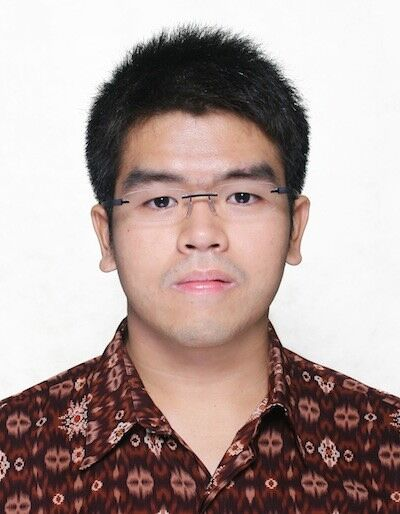
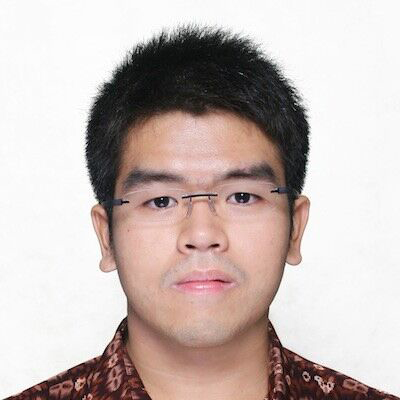
Show student pictures

diff --git a/students/index.html b/students/index.html
@@ -4,13 +4,34 @@ layout: default
 <div class="post">
   <header class="post-header">
     <h1>Students</h1>
+    <hr>
   </header>
-  <article class="post-content">
-    {% for student in site.data.students %}
-      <div class="student-thumbnail" style="background-image: url(/img/students/{{ student.id }}.jpg);"></div>
-      <h3>{{ student.name }}</h3>
-      <p>{{ student.one_liner }}</p>
-      <p>{{ student.year }}</p>
-    {% endfor %}
+  <div class="row">
+    <div class="col-md-2">
+      <h4>Cohort</h4>
+      <ul>
+        <li>2015/16</li>
+        <li>2014/15</li>
+        <li>2013/14</li>
+      </ul>
+    </div>
+    <div class="col-md-10">
+      <div class="row">
+        {% for student in site.data.students %}
+          <div class="col-xs-6 col-md-3">
+            <div class="thumbnail">
+              <div class="student-thumbnail-container">
+                <div class="student-thumbnail" style="background-image: url(/img/students/{{ student.id }}.jpg);"></div>
+              </div>
+              <div class="caption">
+                <h3>{{ student.name }}</h3>
+                <p>{{ student.one_liner }}</p>
+                <!-- <small>{{ student.year }}</small> -->
+              </div>
+            </div>
+          </div>
+        {% endfor %}
+      </div>
+    </div>
   </article>
 </div>

diff --git a/_sass/_students.scss b/_sass/_students.scss
@@ -1,7 +1,25 @@
-.student-thumbnail {
-    $size: 64px;
+.thumbnail {
+    padding: 20px;
 
-    background-size: cover;
-    height: $size;
-    width: $size;
+    .student-thumbnail-container {
+        position: relative;
+        width: 100%;
+
+        &:before {
+            content: '';
+            display: block;
+            padding-top: 100%;
+        }
+    }
+
+    .student-thumbnail {
+        position: absolute;
+        top: 0;
+        left: 0;
+        bottom: 0;
+        right: 0;
+        background-position: center center;
+        background-size: cover;
+        display: block;
+    }
 }

diff --git a/_layouts/default.html b/_layouts/default.html
@@ -4,7 +4,7 @@
   <body>
     {% include header.html %}
     <div class="page-content">
-      <div class="wrapper">
+      <div class="container">
         {{ content }}
       </div>
     </div>
